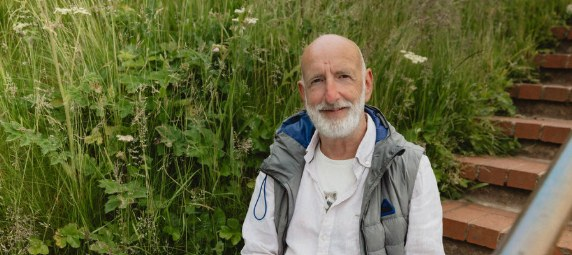
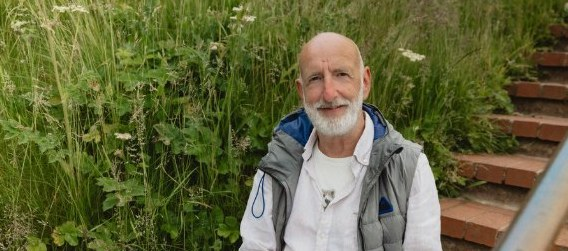
Weisse Screenshot-Raender abschneiden, Methoden-Bildkachel auf 4:3 begrenzen

diff --git a/Individuelle-Begleitung.dc.html b/Individuelle-Begleitung.dc.html
@@ -69,7 +69,7 @@
         <h3 style="margin:0;font-family:'Cormorant Garamond',serif;font-size:23px;font-weight:600;color:#23423F">Somato-emotionale Tiefenentspannung</h3>
         <p style="margin:0;font-size:17px;line-height:1.65;color:#4C463D" data-fs-base="15.5">Somato-emotionale Tiefenentspannung verbindet Körperwahrnehmung und Gefühl, um Stress zu lösen und deine innere Regulation zu fördern. Erreicht werden dabei oftmals tief in unserem Zellgedächtnis verankerte Muster oder Prägungen. Für die Transformation ist es dabei vollkommen gleichgültig, ob es sich um ein körperliches „Trauma“ (z. B. Autounfall) oder ein seelisches „Trauma“ handelt, z. B. Kaiserschnittgeburt, Brutkasten oder jegliche andere Trennung von der Mutter im frühkindlichen Alter.</p>
       </div>
-      <div style="border-radius:5px;overflow:hidden;min-height:220px;background:url('img/ralf-treppe.jpg') center 40%/cover no-repeat"></div>
+      <img src="img/ralf-treppe.jpg" alt="Ralf Baars im Gespräch" loading="lazy" style="display:block;width:100%;aspect-ratio:4/3;object-fit:cover;object-position:center 40%;border-radius:5px;align-self:start">
     </div>
   </div>
 </section>
